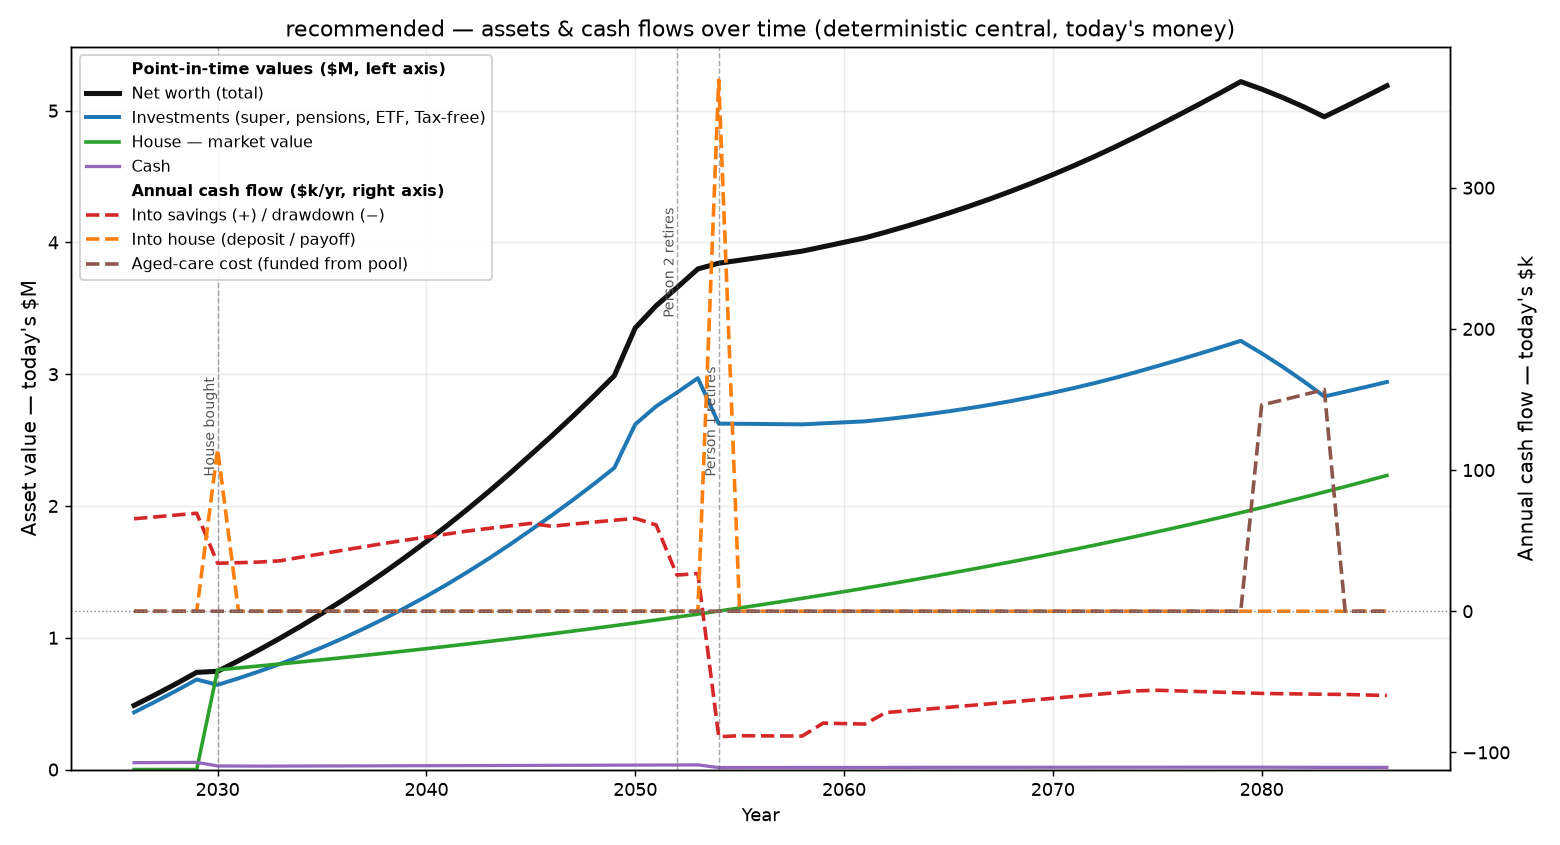
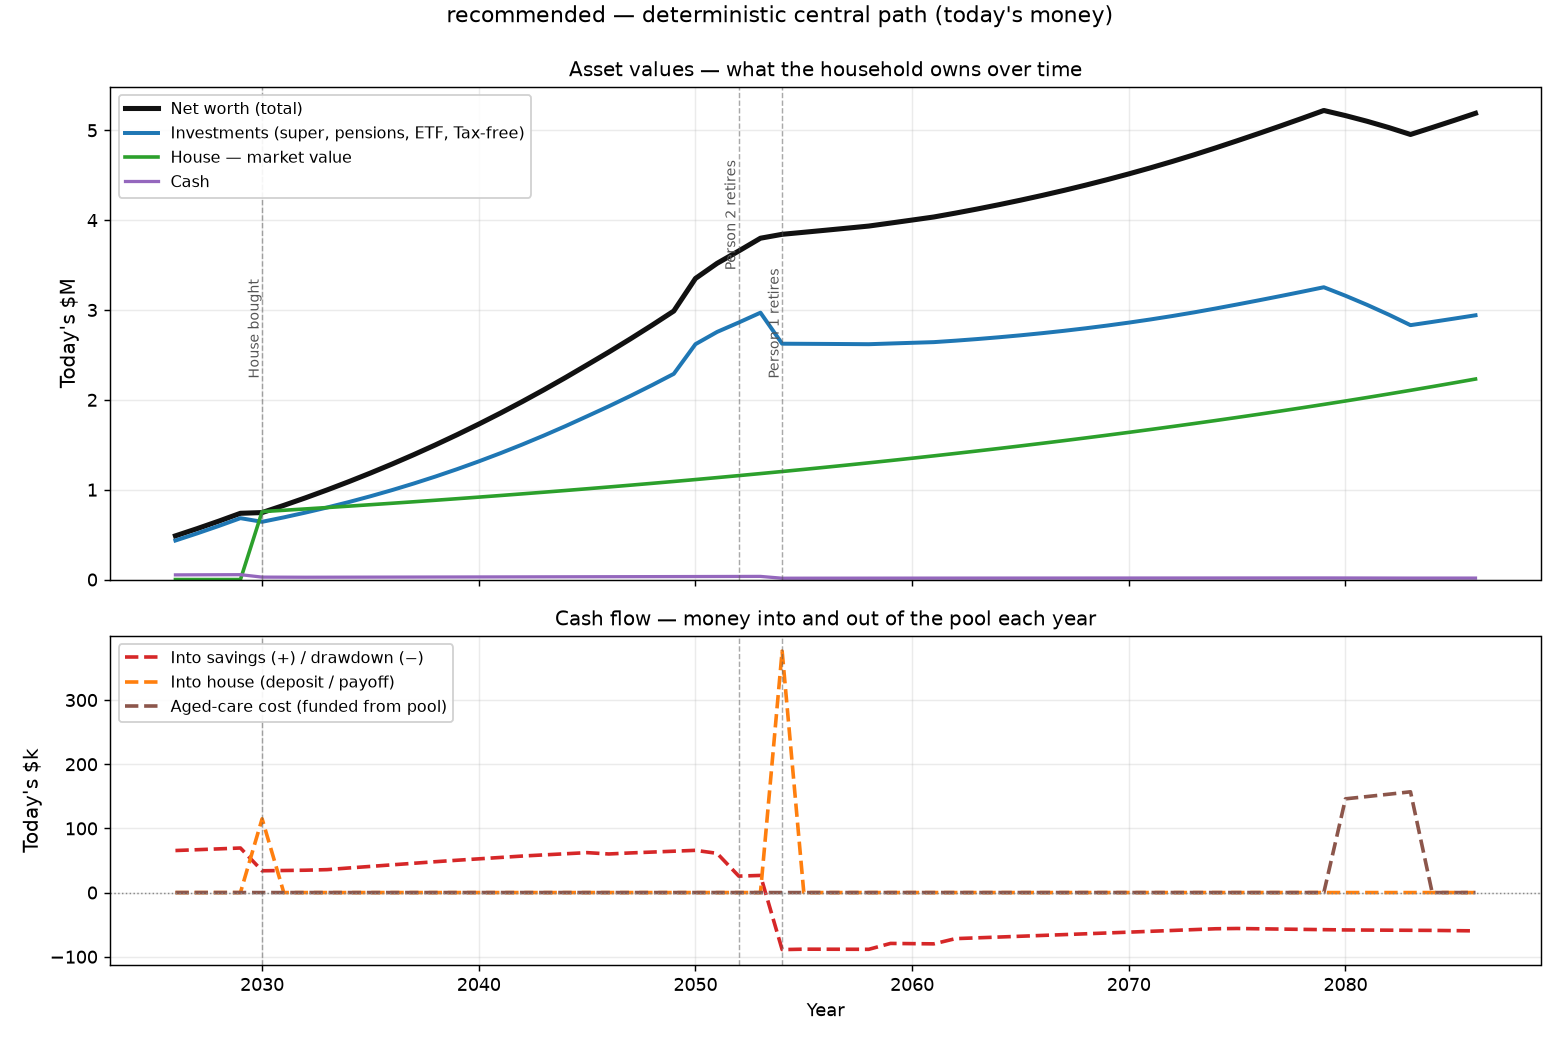
charts: split the lifetime chart into stacked asset-value and cash-flow panels
Replace the dual-axis overlay with two stacked panels sharing one x-axis:
asset levels ($M) on top, annual flows ($k/yr) below. Each gets a clear
descriptive title and its own legend (group headers removed); event markers
span both panels so the shared timeline still ties levels to flows.
Regenerate the committed example snapshot and update the README description.

diff --git a/model/finmodel/report/charts.py b/model/finmodel/report/charts.py
@@ -1,8 +1,13 @@
 """Time-series chart of a scenario's deterministic-central path: asset levels
-(left axis) and annual cash flows (right axis), in today's money.
+(top panel) and annual cash flows (bottom panel), in today's money.
 
-Two y-axes because the series live on different scales: asset *levels* are in the
-millions; annual *flows* (saving, housing outlay) are in the tens of thousands.
+Two stacked panels sharing one x-axis, rather than a dual-axis overlay, because the
+series are different *kinds* of quantity on different scales: asset *levels* are
+stocks in the millions; annual *flows* (saving, housing outlay, care) are rates in
+the tens of thousands. Separating them removes the dual-axis "which line is on which
+axis?" load while the shared time axis (and the event markers spanning both panels)
+keeps the relationship — e.g. the house purchase dipping net worth *and* spiking the
+housing flow — visible.
 
 Reads `ScenarioResult.rows` (the deterministic central ledger) — not Monte Carlo,
 so it's a single clean line per series. Headless (Agg backend); writes a PNG.
@@ -38,62 +43,53 @@ def write_chart(result, path: str) -> str:
     care     = [today(r.care, r.infl) / 1e3 for r in rows]         # aged-care cost (a 2nd object)
     has_care = any(c > 0 for c in care)
 
-    fig, axL = plt.subplots(figsize=(12, 6.5))
-    axR = axL.twinx()
+    # Two stacked panels sharing the x-axis: levels on top (taller), flows below.
+    fig, (axL, axF) = plt.subplots(2, 1, sharex=True, figsize=(12, 8),
+                                   gridspec_kw={"height_ratios": [3, 2]})
 
-    # ---- left axis: asset levels — all SOLID ($M, today's money) ----
-    lines = []
-    lines += axL.plot(years, networth, color="#111111", lw=2.8, label="Net worth (total)")
-    lines += axL.plot(years, invest, color="#1f77b4", lw=2.2, label="Investments (super, pensions, ETF, Tax-free)")
-    lines += axL.plot(years, house,  color="#2ca02c", lw=2.0, label="House — market value")
+    # ---- top panel: asset levels — all SOLID ($M, today's money) ----
+    axL.plot(years, networth, color="#111111", lw=2.8, label="Net worth (total)")
+    axL.plot(years, invest, color="#1f77b4", lw=2.2, label="Investments (super, pensions, ETF, Tax-free)")
+    axL.plot(years, house,  color="#2ca02c", lw=2.0, label="House — market value")
     if drew_house:   # only when aged care consumed home equity (funded_from: house)
-        lines += axL.plot(years, house_eq, color="#2ca02c", lw=1.6, ls=(0, (4, 2)),
-                          label="House — equity after aged-care draws")
-    lines += axL.plot(years, cash,   color="#9467bd", lw=1.8, label="Cash")
-    axL.set_ylabel("Asset value — today's $M", fontsize=11)
-    axL.set_xlabel("Year")
+        axL.plot(years, house_eq, color="#2ca02c", lw=1.6, ls=(0, (4, 2)),
+                 label="House — equity after aged-care draws")
+    axL.plot(years, cash,   color="#9467bd", lw=1.8, label="Cash")
+    axL.set_ylabel("Today's $M", fontsize=11)
     axL.grid(True, alpha=0.25)
     axL.set_ylim(bottom=0)
+    axL.set_title("Asset values — what the household owns over time", fontsize=11)
+    axL.legend(loc="upper left", fontsize=9, framealpha=0.9)
 
-    # ---- right axis: annual cash flows — all DASHED ($k/yr, today's money) ----
-    sline, = axR.plot(years, saving, color="#d62728", lw=2.0, ls="--",
-                      label="Into savings (+) / drawdown (−)")
-    hline, = axR.plot(years, house_in, color="#ff7f0e", lw=2.0, ls="--",
-                      label="Into house (deposit / payoff)")
-    flows = [sline, hline]
+    # ---- bottom panel: annual cash flows — all DASHED ($k/yr, today's money) ----
+    axF.plot(years, saving, color="#d62728", lw=2.0, ls="--",
+             label="Into savings (+) / drawdown (−)")
+    axF.plot(years, house_in, color="#ff7f0e", lw=2.0, ls="--",
+             label="Into house (deposit / payoff)")
     if has_care:   # aged care as its own object: a separate cost flow ($k/yr)
-        cline, = axR.plot(years, care, color="#8c564b", lw=2.0, ls="--",
-                          label="Aged-care cost (funded from pool)")
-        flows.append(cline)
-    axR.axhline(0, color="#888", lw=0.8, ls=":")
-    axR.set_ylabel("Annual cash flow — today's $k", fontsize=11)
+        axF.plot(years, care, color="#8c564b", lw=2.0, ls="--",
+                 label="Aged-care cost (funded from pool)")
+    axF.axhline(0, color="#888", lw=0.8, ls=":")
+    axF.set_ylabel("Today's $k", fontsize=11)
+    axF.set_xlabel("Year")
+    axF.grid(True, alpha=0.25)
+    axF.set_title("Cash flow — money into and out of the pool each year", fontsize=11)
+    axF.legend(loc="upper left", fontsize=9, framealpha=0.9)
 
-    # ---- event markers (house purchase & Person 2 retirement share 2031 -> stagger labels) ----
+    # ---- event markers spanning both panels (label them once, on the top panel) ----
     ev = resolve_events(result.cfg)
     top = axL.get_ylim()[1]
     for yr, lbl, frac in ((ev.get("house_purchase"), "House bought", 0.40),
                           (ev.get("person2_retires"), "Person 2 retires", 0.62),
                           (ev.get("person1_retires"), "Person 1 retires", 0.40)):
         if yr:
-            axL.axvline(yr, color="#555", lw=0.8, ls="--", alpha=0.5)
+            for ax in (axL, axF):
+                ax.axvline(yr, color="#555", lw=0.8, ls="--", alpha=0.5)
             axL.text(yr, top * frac, f" {lbl}", rotation=90,
                      va="bottom", ha="right", fontsize=8, color="#555")
 
-    # ---- single grouped legend (top-left): solid levels first, then dashed flows,
-    # each under a bold header naming its axis & units ----
-    from matplotlib.lines import Line2D
-    H_LEVELS = "Point-in-time values ($M, left axis)"
-    H_FLOWS  = "Annual cash flow ($k/yr, right axis)"
-    header = lambda txt: Line2D([], [], color="none", label=txt)  # invisible glyph = a header
-    handles = [header(H_LEVELS)] + lines + [header(H_FLOWS)] + flows
-    leg = axL.legend(handles, [h.get_label() for h in handles],
-                     loc="upper left", fontsize=9, framealpha=0.9)
-    for t in leg.get_texts():                       # bold the two group headers
-        if t.get_text() in (H_LEVELS, H_FLOWS):
-            t.set_fontweight("bold")
-
-    axL.set_title(f"{result.name} — assets & cash flows over time (deterministic central, today's money)",
-                  fontsize=12)
+    fig.suptitle(f"{result.name} — deterministic central path (today's money)",
+                 fontsize=12, y=0.995)
     fig.tight_layout()
     fig.savefig(path, dpi=130)
     plt.close(fig)

diff --git a/README.md b/README.md
@@ -103,7 +103,7 @@ fans the per-scenario files into `model/outputs/scenarios/`. Each run produces:
 | Artifact | What it is | Example |
 |---|---|---|
 | **`<scenario>-summary.md`** | A readable per-scenario report — headline P(sustains)/preserved/funded ratio, the net-worth trajectory, the retirement-spend glidepath, full Monte Carlo percentiles, and the documented assumptions. | [example-summary.md](docs/assets/example-summary.md) |
-| **`<scenario>-chart.png`** | *(with `--chart`)* Assets (net worth, investments, house, cash) on the left axis and annual cash flows on the right, across your whole lifetime. | [example-chart.png](docs/assets/example-chart.png) |
+| **`<scenario>-chart.png`** | *(with `--chart`)* Two stacked panels sharing a timeline: **asset values** (net worth, investments, house, cash) on top and **annual cash flow** (saving/drawdown, housing, aged care) below, across your whole lifetime. | [example-chart.png](docs/assets/example-chart.png) |
 | **`scenarios.xlsx`** | An Excel workbook: a **Summary** grid comparing every scenario, a **MonteCarlo** sheet, and a per-scenario **annual ledger** (assets → liabilities → net assets → inflows/outflows → net cash-flow → net worth, years as columns, in today's money). | — |
 
 Also printed to the console: the one-line headline per scenario and an FCA-style **stress